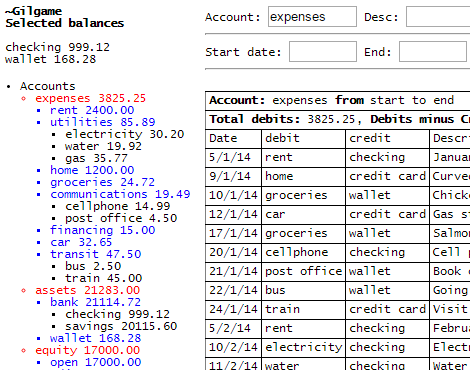
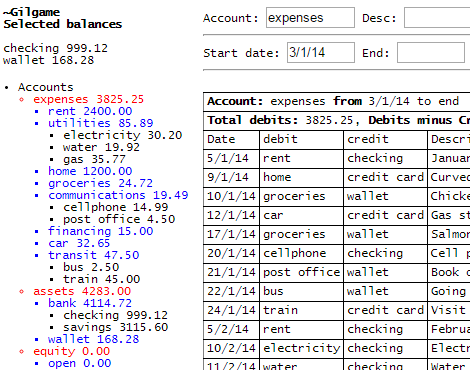
alter demo

diff --git a/gilgame/transactiondata.js b/gilgame/transactiondata.js
@@ -2,7 +2,7 @@
 // "day-month-year; description; amount; debit; credit",
 
 var transactions = [
-  "1/1/14; opening balance; 17000; savings; open",
+  "1/1/14; opening balance; 700; savings; open",
   "3/1/14; transfer; 2500; checking; savings",
   "5/1/14; withdrawal; 200; wallet; checking",
   "5/1/14; January 2014 rent; 800; rent; checking",
